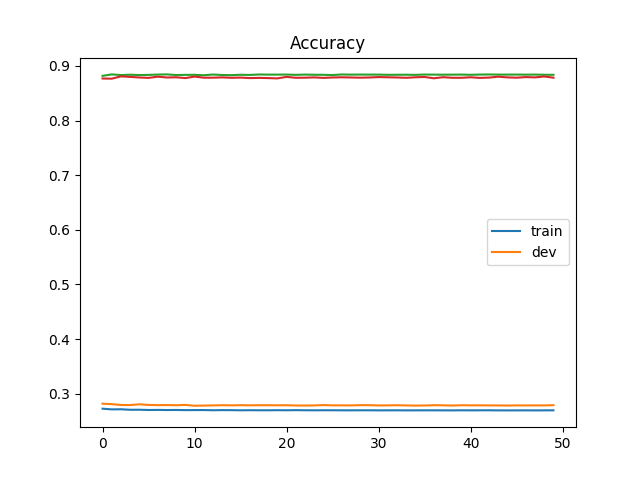
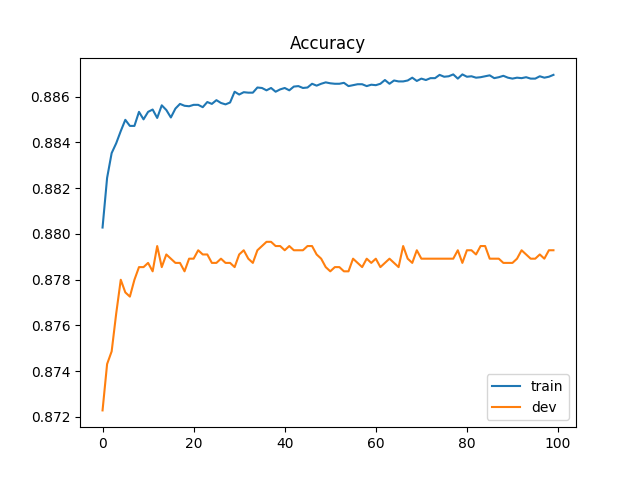
update hw3

diff --git a/hw2/train_lr-2.py b/hw2/train_lr-2.py
@@ -37,12 +37,12 @@ dev_ratio = 0.1
 X_train, Y_train, X_dev, Y_dev = u._train_dev_split(X_train, Y_train, dev_ratio = dev_ratio)
 
 # extract features
-corr = abs(np.corrcoef(X_train.T, Y_train)[-1,:-1]) > 0.05
-print(corr.shape)
+# corr = abs(np.corrcoef(X_train.T, Y_train)[-1,:-1]) > 0.05
+# print(corr.shape)
 
-X_train = X_train[:, corr]
-X_test = X_test[:, corr]
-X_dev = X_dev[:, corr]
+# X_train = X_train[:, corr]
+# X_test = X_test[:, corr]
+# X_dev = X_dev[:, corr]
 
 train_size = X_train.shape[0]
 dev_size = X_dev.shape[0]
@@ -60,9 +60,9 @@ w = np.zeros((data_dim,))
 b = np.zeros((1,))
 
 # Some parameters for training    
-max_iter = 50
-batch_size = 8
-learning_rate = 0.11
+max_iter = 100
+batch_size = 48
+learning_rate = 0.005
 
 # Keep the loss and accuracy at every iteration for plotting
 train_loss = []
@@ -118,6 +118,7 @@ plt.plot(dev_loss)
 plt.title('Loss')
 plt.legend(['train', 'dev'])
 plt.savefig('./figure/loss_lr-2.png')
+plt.clf()
 # plt.show()
 
 # Accuracy curve
@@ -126,6 +127,7 @@ plt.plot(dev_acc)
 plt.title('Accuracy')
 plt.legend(['train', 'dev'])
 plt.savefig('./figure/acc_lr-2.png')
+plt.clf()
 # plt.show()
 
 # save w, b

diff --git a/hw2/train_gn.py b/hw2/train_gn.py
@@ -88,19 +88,3 @@ print('Training accuracy: {}'.format(ut._accuracy(Y_train_pred, Y_train)))
 # save w, b
 np.savez('save_gn.npz', X_test, w, b)
 
-# # Plot
-# # Loss curve
-# plt.plot(train_loss)
-# plt.plot(dev_loss)
-# plt.title('Loss')
-# plt.legend(['train', 'dev'])
-# plt.savefig('loss_gn.png')
-# plt.show()
-
-# # Accuracy curve
-# plt.plot(train_acc)
-# plt.plot(dev_acc)
-# plt.title('Accuracy')
-# plt.legend(['train', 'dev'])
-# plt.savefig('acc_gn.png')
-# plt.show()

diff --git a/hw2/train_lr.py b/hw2/train_lr.py
@@ -118,7 +118,8 @@ plt.plot(dev_loss)
 plt.title('Loss')
 plt.legend(['train', 'dev'])
 plt.savefig('./figure/loss_lr.png')
-plt.show()
+# plt.show()
+plt.clf()
 
 # Accuracy curve
 plt.plot(train_acc)
@@ -126,7 +127,8 @@ plt.plot(dev_acc)
 plt.title('Accuracy')
 plt.legend(['train', 'dev'])
 plt.savefig('./figure/acc_lr.png')
-plt.show()
+# plt.show()
+plt.clf()
 
 # save w, b
 np.savez('save_lr.npz', X_test, w, b)

diff --git a/hw3/train.py b/hw3/train.py
@@ -1,6 +1,7 @@
 import sys
 import numpy as np
 import matplotlib.pyplot as plt
+import cv2
 from keras.models import Sequential
 from keras.layers import Dense, Dropout, Activation
 from keras.preprocessing.image import ImageDataGenerator, array_to_img, img_to_array, load_img
